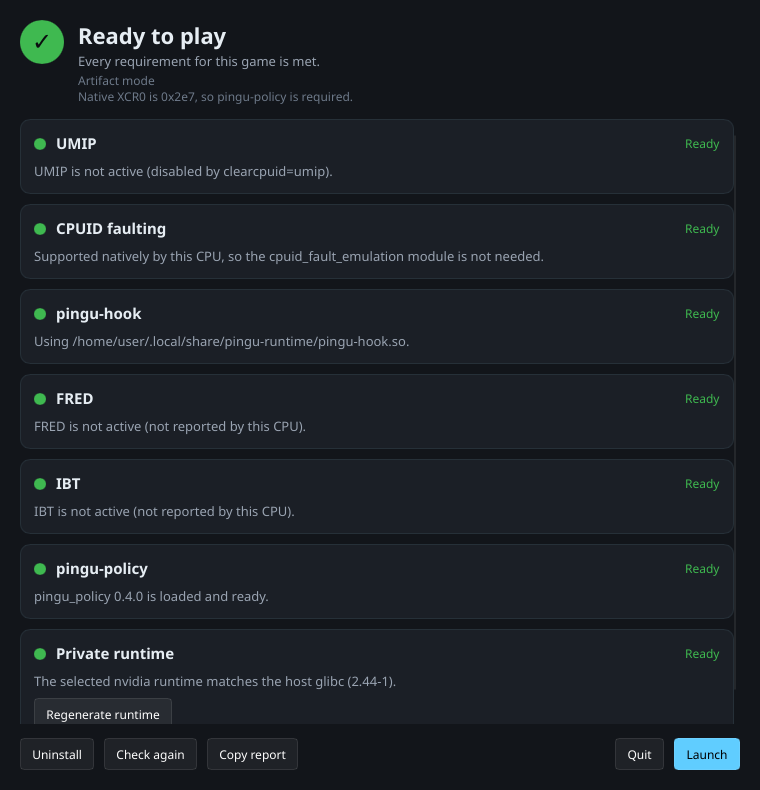
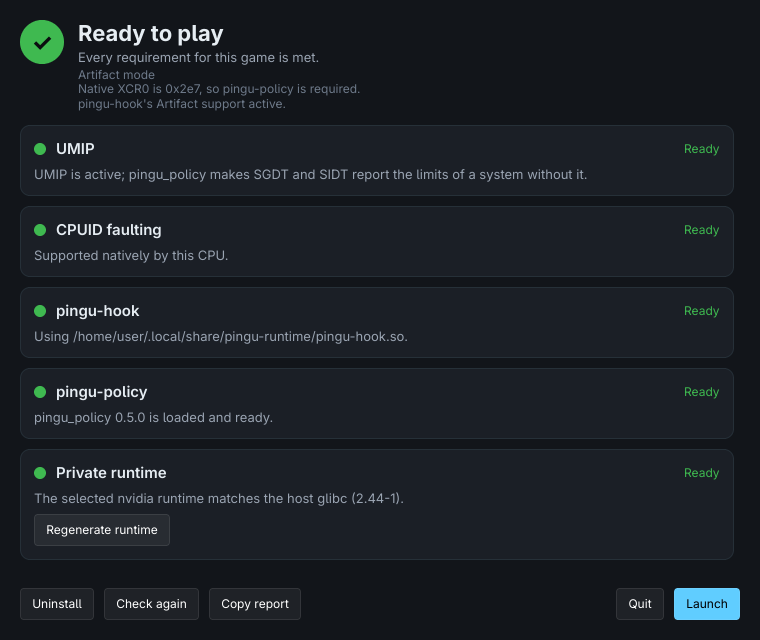
chore(release): 0.2.0 -> 0.3.0

diff --git a/CHANGELOG.md b/CHANGELOG.md
@@ -1,0 +1,13 @@
+## v0.3.0 (2026-11-21)
+
+### Feat
+
+- **launcher**: Faugus Launcher games keep their mangohud and gamemoderun prefix
+- **launcher**: guide users off the old cpuid_fault_emulation module and kernel command line changes
+- **pingu-policy**: one module now covers UMIP and CPUID faulting and works on IBT and FRED kernels
+
+## v0.2.0 (2026-11-20)
+
+### Feat
+
+- initial public release
